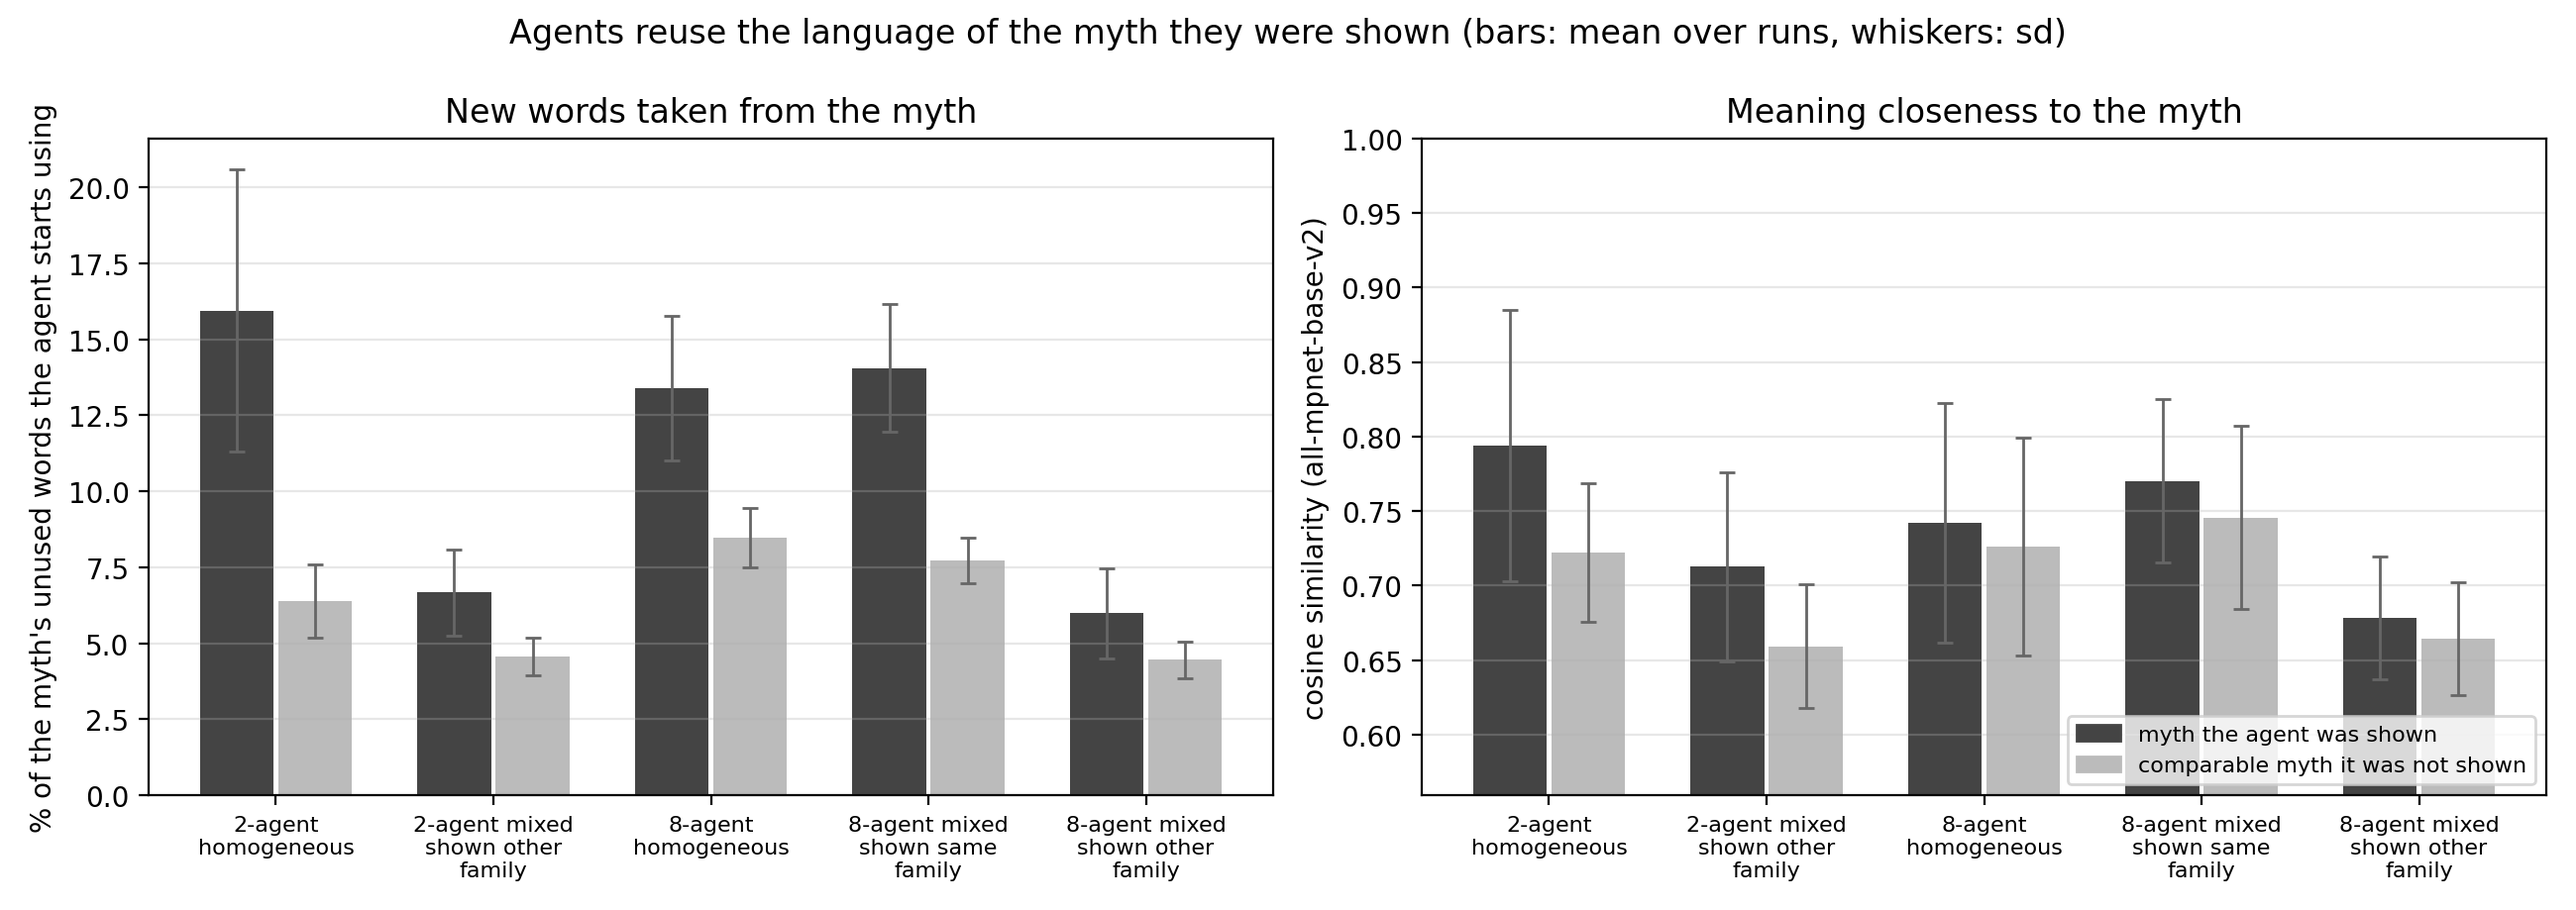
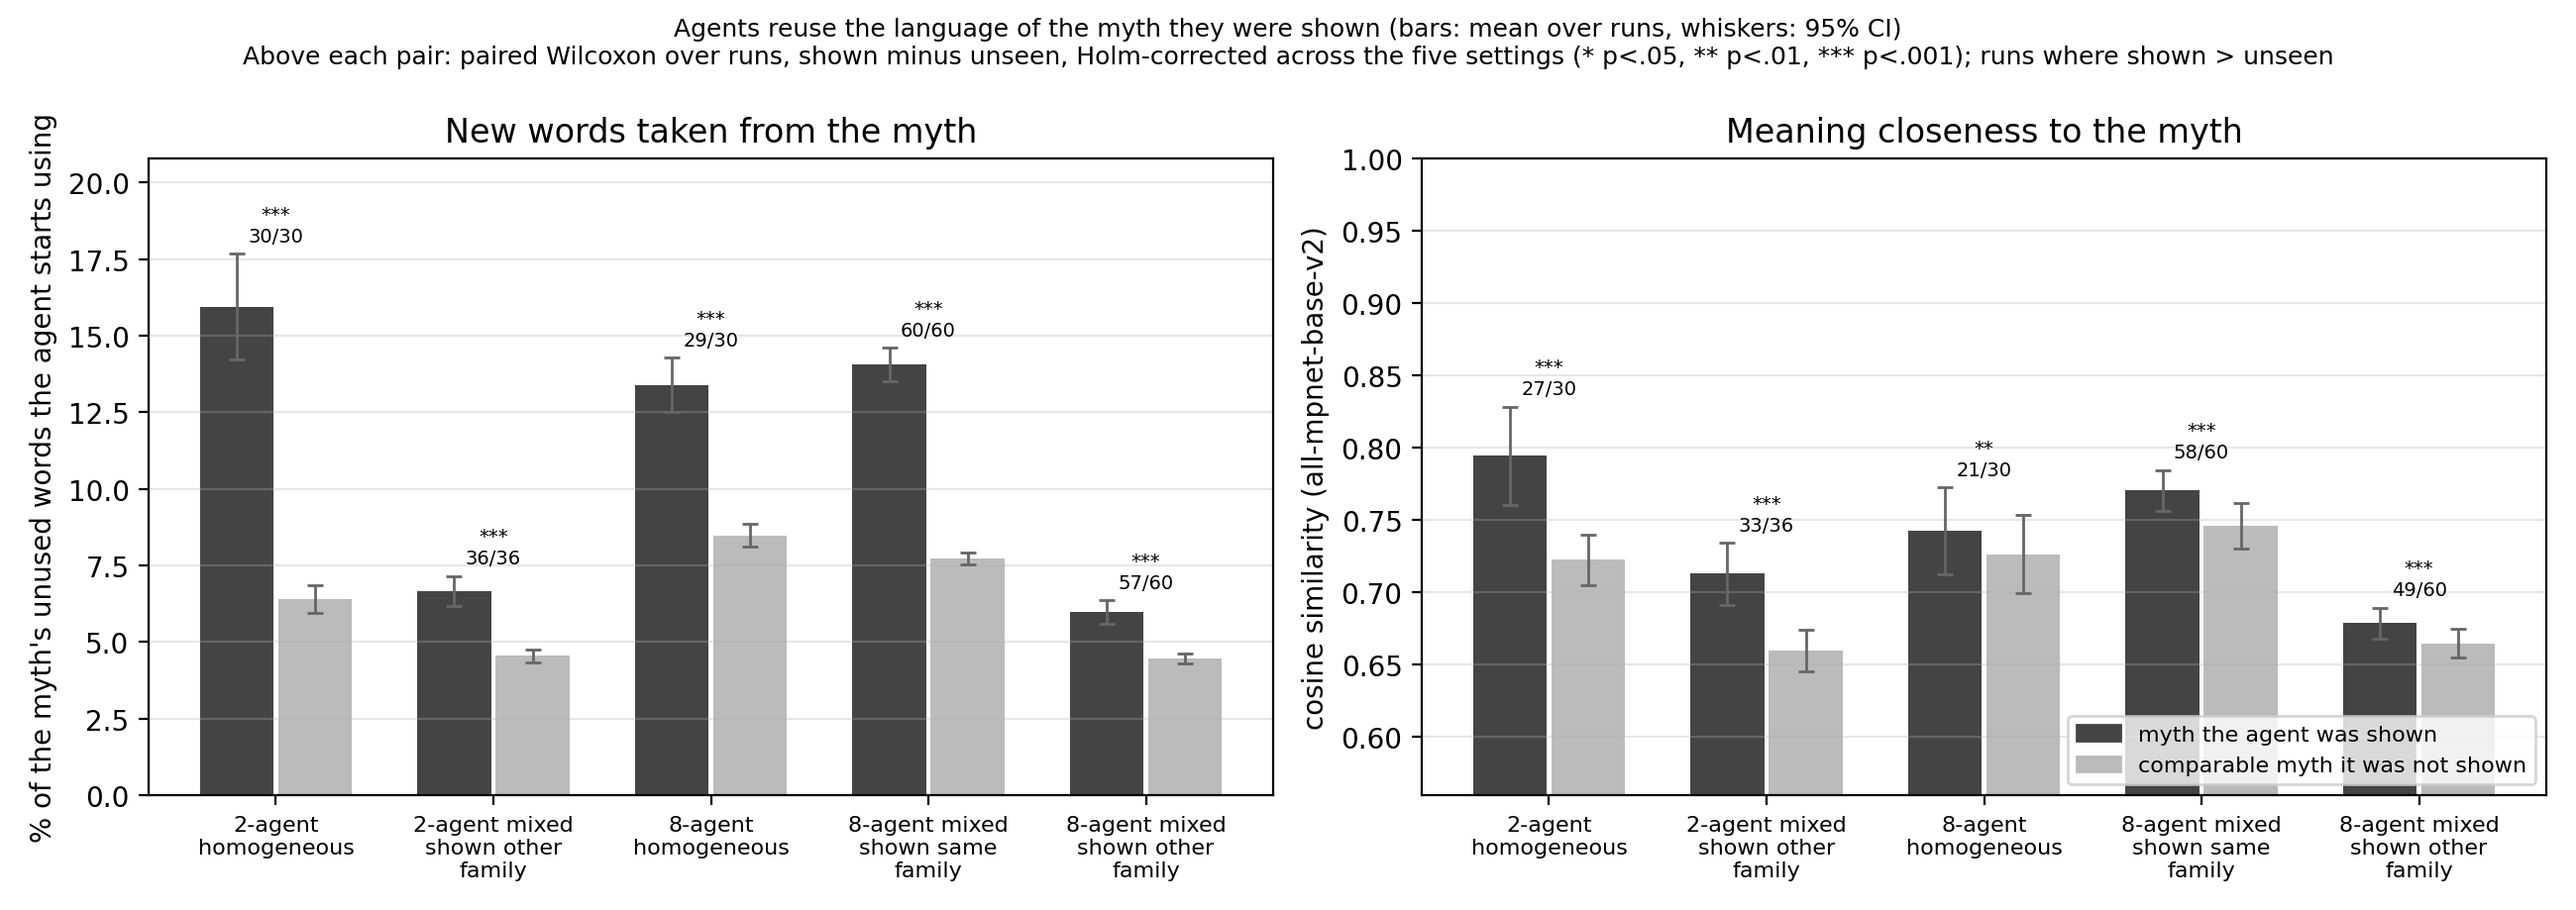
Word-adoption plot: paired significance, Holm correction, 95% CI whiskers
Adds Holm-adjusted p-values and CIs to the reuse tables, annotates the
shown-vs-unseen figure, and adds --replot to rebuild from the saved
per-myth table. Existing numbers reproduce exactly.

diff --git a/analyses/linguistic_uptake.py b/analyses/linguistic_uptake.py
@@ -164,8 +164,34 @@ def run_level_summary(children: pd.DataFrame, by: list[str]) -> pd.DataFrame:
             vals = g[m].dropna()
             rec[f"{m}_p"] = stats.wilcoxon(vals).pvalue if len(vals) >= 5 and (vals != 0).any() else np.nan
             rec[f"{m}_runs_positive"] = int((vals > 0).sum())
+            half = stats.t.ppf(0.975, len(vals) - 1) * vals.std(ddof=1) / np.sqrt(len(vals)) if len(vals) > 1 else np.nan
+            rec[f"{m}_ci_lo"], rec[f"{m}_ci_hi"] = vals.mean() - half, vals.mean() + half
+        for m in ["adopt_parent", "adopt_null", "cos_parent", "cos_null"]:
+            rec[f"{m}_ci"] = stats.t.ppf(0.975, len(g) - 1) * g[m].std(ddof=1) / np.sqrt(len(g)) if len(g) > 1 else np.nan
         rows.append(rec)
-    return pd.DataFrame(rows)
+    out = pd.DataFrame(rows)
+    # Holm correction across the rows of this table, separately for each metric.
+    for m in ["adopt_excess", "cos_excess"]:
+        out[f"{m}_p_holm"] = holm(out[f"{m}_p"].to_numpy())
+    return out
+
+
+def holm(p: np.ndarray) -> np.ndarray:
+    """Holm step-down adjusted p-values; NaNs pass through."""
+    adj = np.full(len(p), np.nan)
+    ok = ~np.isnan(p)
+    idx = np.flatnonzero(ok)[np.argsort(p[ok])]
+    running = 0.0
+    for rank, i in enumerate(idx):
+        running = max(running, min(1.0, (len(idx) - rank) * p[i]))
+        adj[i] = running
+    return adj
+
+
+def stars(p: float) -> str:
+    if np.isnan(p):
+        return "n/a"
+    return "***" if p < 0.001 else "**" if p < 0.01 else "*" if p < 0.05 else "n.s."
 
 
 # --------------------------------------------------------------------------- 3
@@ -331,7 +357,11 @@ def plot_excess(summary: pd.DataFrame) -> None:
             r = r.iloc[0]
             for dx, part, color in ((-0.18, "parent", "#444444"), (0.18, "null", "#bbbbbb")):
                 ax.bar(x + dx, r[f"{metric}_{part}_mean"] * scale, width=0.34, color=color,
-                       yerr=r[f"{metric}_{part}_sd"] * scale, capsize=3, error_kw=dict(lw=1, ecolor="#666666"))
+                       yerr=r[f"{metric}_{part}_ci"] * scale, capsize=3, error_kw=dict(lw=1, ecolor="#666666"))
+            top = max(r[f"{metric}_parent_mean"] + r[f"{metric}_parent_ci"],
+                      r[f"{metric}_null_mean"] + r[f"{metric}_null_ci"]) * scale
+            ax.annotate(f"{stars(r[f'{metric}_excess_p_holm'])}\n{int(r[f'{metric}_excess_runs_positive'])}/{int(r['n_runs'])}",
+                        (x, top), xytext=(0, 3), textcoords="offset points", ha="center", va="bottom", fontsize=7)
         ax.set_xticks(range(len(order)), labels, fontsize=8)
         ax.set_title(title)
         ax.grid(axis="y", alpha=0.3)
@@ -343,7 +373,10 @@ def plot_excess(summary: pd.DataFrame) -> None:
                    loc="lower right", fontsize=8)
     lo = min(summary["cos_null_mean"].min(), summary["cos_parent_mean"].min())
     axes[1].set_ylim(max(0, lo - 0.1), 1)
-    fig.suptitle("Agents reuse the language of the myth they were shown (bars: mean over runs, whiskers: sd)")
+    axes[0].set_ylim(0, axes[0].get_ylim()[1] * 1.12)
+    fig.suptitle("Agents reuse the language of the myth they were shown (bars: mean over runs, whiskers: 95% CI)\n"
+                 "Above each pair: paired Wilcoxon over runs, shown minus unseen, Holm-corrected across the five "
+                 "settings (* p<.05, ** p<.01, *** p<.001); runs where shown > unseen", fontsize=9)
     fig.tight_layout()
     fig.savefig(FIGS / "language_reuse_shown_vs_unseen.png", dpi=200)
     plt.close(fig)
@@ -415,13 +448,32 @@ def plot_style(drift: pd.DataFrame, accuracy: float) -> None:
 
 # --------------------------------------------------------------------------- main
 
+def write_reuse(children: pd.DataFrame) -> None:
+    main_summary = run_level_summary(children, ["size", "exposure"])
+    by_order = run_level_summary(children, ["size", "exposure", "task_order"])
+    by_family = run_level_summary(children, ["size", "exposure", "family", "parent_family"])
+    main_summary.to_csv(FIGS / "reuse_summary.csv", index=False)
+    by_order.to_csv(FIGS / "reuse_by_task_order.csv", index=False)
+    by_family.to_csv(FIGS / "reuse_by_family_pair.csv", index=False)
+    plot_excess(main_summary)
+    show = ["size", "exposure", "n_runs", "adopt_parent_mean", "adopt_null_mean", "adopt_excess_mean",
+            "adopt_excess_p_holm", "adopt_excess_runs_positive", "cos_excess_mean", "cos_excess_p_holm",
+            "cos_excess_runs_positive"]
+    print(main_summary[show].round(4).to_string(index=False))
+
+
 def main() -> None:
     ap = argparse.ArgumentParser(description=__doc__.splitlines()[0])
     ap.add_argument("--perms", type=int, default=1000)
     ap.add_argument("--seed", type=int, default=20260923)
+    ap.add_argument("--replot", action="store_true",
+                    help="rebuild the reuse tables and figure from the saved uptake_children.csv; skip the rest")
     args = ap.parse_args()
     rng = np.random.default_rng(args.seed)
     FIGS.mkdir(parents=True, exist_ok=True)
+    if args.replot:
+        write_reuse(pd.read_csv(DATA / "uptake_children.csv"))
+        return
 
     myths = load_myths()
     print(f"{len(myths)} myths, {int((~myths['valid']).sum())} excluded as empty")
@@ -433,16 +485,7 @@ def main() -> None:
 
     children = child_table(myths, words, hist, emb, cands)
     children.to_csv(DATA / "uptake_children.csv", index=False)
-    main_summary = run_level_summary(children, ["size", "exposure"])
-    by_order = run_level_summary(children, ["size", "exposure", "task_order"])
-    by_family = run_level_summary(children, ["size", "exposure", "family", "parent_family"])
-    main_summary.to_csv(FIGS / "reuse_summary.csv", index=False)
-    by_order.to_csv(FIGS / "reuse_by_task_order.csv", index=False)
-    by_family.to_csv(FIGS / "reuse_by_family_pair.csv", index=False)
-    plot_excess(main_summary)
-    show = ["size", "exposure", "n_runs", "adopt_parent_mean", "adopt_null_mean", "adopt_excess_mean",
-            "adopt_excess_sd", "adopt_excess_p", "cos_excess_mean", "cos_excess_sd", "cos_excess_p"]
-    print(main_summary[show].round(4).to_string(index=False))
+    write_reuse(children)
 
     X, vocab = marker_matrix(myths)
     H = history_matrix(myths, X)

diff --git a/docs/figures/linguistic_analysis_20260923/README.md b/docs/figures/linguistic_analysis_20260923/README.md
@@ -67,6 +67,20 @@ before, the share it starts using.
 | 8-agent mixed, shown own family | 14.1% (±2.1) | 7.7% (±0.7) | 60/60 |
 | 8-agent mixed, shown other family | 6.0% (±1.5) | 4.5% (±0.6) | 57/60 |
 
+**Significance** (added 2026-09-29, `--replot` from the saved per-myth table;
+numbers unchanged). Each row is a paired Wilcoxon test over runs (shown minus
+unseen), Holm-corrected across the five settings: word adoption p < 0.001 in all
+five, including both "shown other family" rows. Meaning closeness: p < 0.001 in
+four settings, p = 0.005 in 8-agent homogeneous (21/30 runs). The figure's
+whiskers are now 95% CIs of the run means (they were SDs, which made the
+other-family bars look like they overlap). The test is paired, so overlapping
+bars do not mean no difference. Split further (`reuse_by_family_pair.csv`,
+`reuse_by_task_order.csv`, Holm within each table), every family pair and task
+order keeps word adoption at p ≤ 0.018. Meaning closeness holds for dyads but
+loses significance in 11 of 19 family-pair cells (n = 10 to 20 runs) and in
+8-agent homogeneous per task order (p ≈ 0.08). Report word adoption as the
+robust measure; treat meaning closeness as supporting.
+
 The dyad rows compare with a myth from another run, which did not share the
 pair's game history; two partners who lived the same rounds could coin the
 same words independently. The 8-agent rows (comparison myth from the same run
